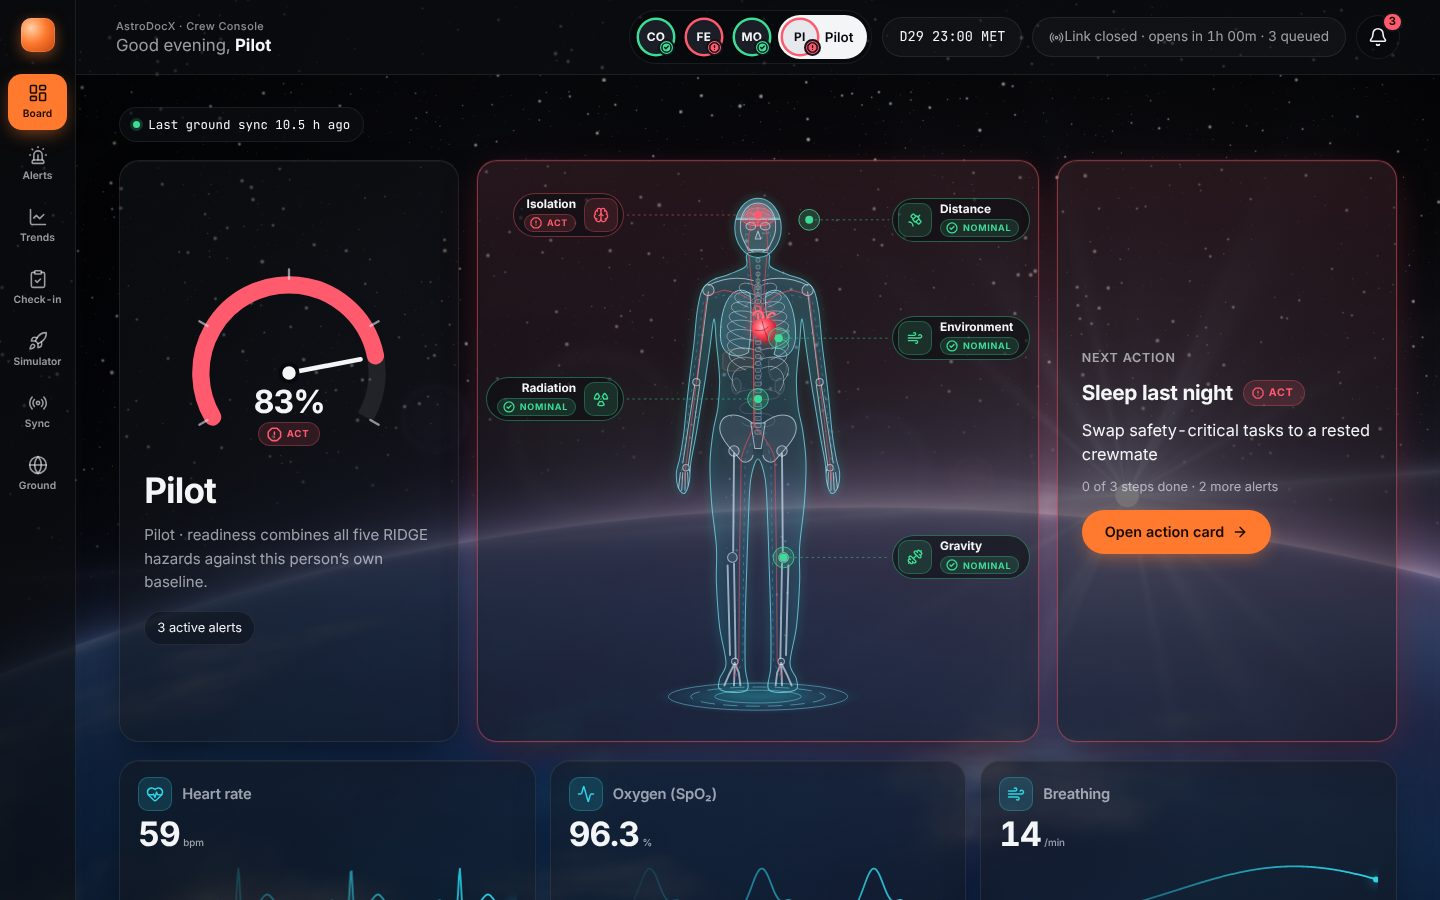
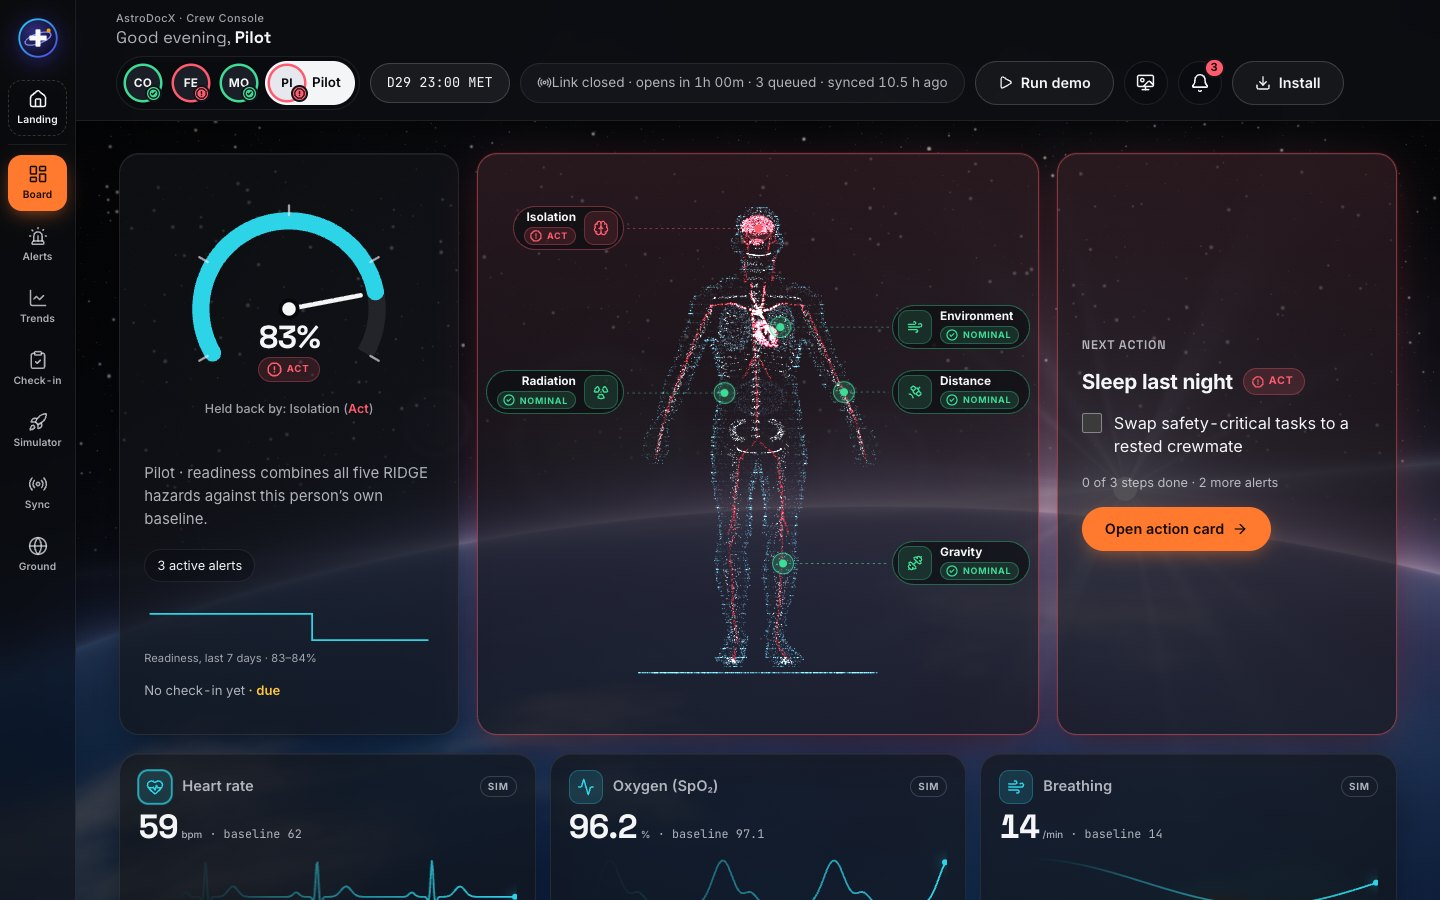
docs: README screenshots and text match the current landing page and console
- New 1440x900 screenshots: intro, the Crew scene on the Moon, Health Twin, AstroDocX
  reveal, and every console page (Pilot selected), plus Ground View with the 3D crew cards.
  The landing Live Demo shot is gone with the section itself.
- The README opens with the Health Twin instead of the old design mockup.
- Text follows what is built now: the particle journey, the 3D body in the console twin and
  ground cards, Run demo and the console Simulator instead of the landing Live Demo, tour
  mode, 180+ tests, the bakers in tools/, the baked targets and the 3D sources.

diff --git a/README.md b/README.md
@@ -5,7 +5,7 @@
 > NASA Space Apps Challenge 2026 · Challenge: *Create Health Monitoring Software for Astronauts on Space Missions*
 > Team AstroDocX · Dhaka, Bangladesh
 
-![AstroDocX Health Twin](landing/assets/og-image.png)
+![AstroDocX Health Twin: a real human shape made of particles, with the brain, heart, lungs, skeleton and arteries inside](docs/screenshots/health-twin.jpg)
 
 ## The problem
 Long-duration missions expose astronauts to the five spaceflight hazards NASA groups as **RIDGE**:
@@ -30,12 +30,12 @@ AstroDocX learns each astronaut's **personal baseline**, spots drift early, and 
 | Explainable alerts | Each alert says what changed, by how much, against whose baseline and since when |
 | Action cards | Checkable countermeasure steps with progress and Done; open → escalate → ease → resolve lifecycle, all logged |
 | Status Board | Five RIDGE tiles, crew readiness score, crew overview, next action, live vitals strip (ECG-style waves, heart pulse) |
-| Health Twin (console) | Anatomical hologram: a live heart beating with the ECG; organs and bones take their hazard status |
+| Health Twin (console) | A 3D particle body (the same baked human as the landing page) turning gently: the heart beats with the live ECG, a pulse runs down the arteries, and each hazard colours its own part (brain, lungs, legs, skin, transmitter arm) amber or red |
 | Trends | 11 charts with the personal baseline band, alert markers, 24 h / 7 d / 30 d |
 | Daily Check-in | Mood, sleep quality, hours slept, 8 symptom chips and a 5-tap reaction test (PVT-style); symptoms and sleep quality raise alerts |
 | Mission Simulator | Mission clock, fast-forward, 4 injectable scenarios (solar event, CO₂ fault, insomnia, deconditioning); watch the engine react |
 | Ground Sync | Delay-tolerant outbox: link windows, 12-minute delay, blackout, auto-sync, CSV log export |
-| Ground View | Flight-surgeon view rebuilt only from synced entries (shows what Earth knows, and when) |
+| Ground View | Flight-surgeon view rebuilt only from synced entries (shows what Earth knows, and when); each crew card shows the 3D body in its status colour |
 | Platform | Offline-first installable PWA, IndexedDB on the device, 4-crew 30-day demo mission preloaded |
 
 **Not built yet (Roadmap):** wearable sensor integration, a real Supabase ground backend with proper policies, vision/SANS self-tests, blood pressure, bone density, a multi-device ground station.
@@ -43,11 +43,15 @@ AstroDocX learns each astronaut's **personal baseline**, spots drift early, and 
 > **Status:** the landing page and the **Crew Console** (`app/`) are built and run the full loop on synthetic data. See [`plan.md`](plan.md) for the build log. AstroDocX is a prototype, **not a medical device**; all thresholds not cited in the code are illustrative.
 
 ## Screenshots
-**Landing page**
+**Landing page:** one scroll-driven journey made of the same 24,000 particles: stardust, a planet, an astronaut saluting the flag on the Moon, Orion, a relay satellite and Earth, which then becomes the Health Twin and finally the AstroDocX wordmark.
 
-| Hero | Health Twin | Mission Simulator |
-|---|---|---|
-| ![Hero](docs/screenshots/hero.jpg) | ![Health Twin](docs/screenshots/health-twin.jpg) | ![Mission Simulator](docs/screenshots/mission-simulator.jpg) |
+| Intro | Crew: on the Moon |
+|---|---|
+| ![Intro: Explore Beyond](docs/screenshots/hero.jpg) | ![An astronaut saluting the flag on the Moon, Earth above, made of particles](docs/screenshots/crew-moon.jpg) |
+
+| Health Twin | AstroDocX |
+|---|---|
+| ![Health Twin with six systems and leader lines](docs/screenshots/health-twin.jpg) | ![The AstroDocX wordmark and pitch](docs/screenshots/astrodocx.jpg) |
 
 **Crew Console** (synthetic demo data, Pilot selected)
 
@@ -61,13 +65,16 @@ AstroDocX learns each astronaut's **personal baseline**, spots drift early, and 
 |---|---|
 | ![Check-in](docs/screenshots/console-checkin.jpg) | ![Simulator](docs/screenshots/console-simulator.jpg) |
 
-![Ground Sync](docs/screenshots/console-sync.jpg)
+| Ground Sync | Ground View |
+|---|---|
+| ![Ground Sync](docs/screenshots/console-sync.jpg) | ![Ground View crew cards with the 3D body in each status colour](docs/screenshots/console-ground.jpg) |
 
 The live waves on the board (ECG, pulse oximeter, breathing) are **simulated telemetry** built around the latest real readings; they never change alerts.
 
 ## Try it
 - **Health Twin:** scroll through the section. The scan runs head to feet, six system panels appear, Crew Readiness counts up, then the Pilot's real Act alert from the demo mission appears as an action card. Panel values are the demo mission's latest readings.
-- **Mission Simulator (Live Demo):** inject a fault (CO₂ scrubber fault, solar particle event, insomnia streak, skipped exercise, link blackout) or press *Play scenario*. Tick the action-card steps, press *Carry out & log*, then open the ground link window to sync the log.
+- **Run demo (Crew Console):** press *Run demo* in the top bar to inject a CO₂ scrubber fault and watch the board, twin and alerts react (about 20 s); *Reset demo* restores the mission data.
+- **Mission Simulator (Crew Console, `/app/simulator`):** inject a scenario (solar particle event, CO₂ scrubber fault, insomnia streak, skipped exercise) for one crew member or the whole crew, then tick the action-card steps on Alerts and sync the log from Ground Sync in the next link window.
 
 ## Links
 - **Landing page:** https://astrodocx.netlify.app
@@ -82,7 +89,7 @@ The live waves on the board (ECG, pulse oximeter, breathing) are **simulated tel
 cd app
 npm install
 npm run dev      # http://localhost:5173/app/
-npm test         # 100+ tests (engine, UI, DB)
+npm test         # 180+ tests (engine, UI, DB)
 npm run build && npm run preview   # production build with the service worker, to test install and offline
 ```
 
@@ -98,7 +105,7 @@ python3 -m http.server 8000
 By default Ground Sync is simulated and nothing leaves the device. To upload synced log entries to a real server, create a Supabase project, run [`docs/supabase.sql`](docs/supabase.sql), copy `app/.env.example` to `app/.env.local` and fill in `VITE_SUPABASE_URL` and `VITE_SUPABASE_ANON_KEY`, then rebuild. Uploads happen only in link windows; a failed upload keeps entries queued like a blackout. The Ground View then reads from the server, so a flight surgeon can open `/app/ground` on another computer. **The provided policies are demo-grade (anonymous insert and read) and only suitable for synthetic data**; see the notes in the SQL file.
 
 ## Record the project video (tour mode)
-Open the landing page with `?tour=1` (for example `http://localhost:8000/?tour=1`) and it scrolls itself from hero to footer at a steady pace, so a screen recording is smooth. The cursor and back-to-top button are hidden, and the Live Demo's *Play scenario* starts on its own. Options: `&speed=1.25` (faster), `&delay=5` (lead-in seconds). Keys: Space pause, R restart, Esc stop; any mouse wheel or touch also stops it. Default run is roughly 3 to 4 minutes; check the Space Apps video length rules and tune `PLAN` in `landing/tour.js`.
+Open the landing page with `?tour=1` (for example `http://localhost:8000/?tour=1`) and it plays the journey by itself, pausing on every scene and Health Twin stage, so a screen recording is smooth. The cursor and back-to-top button are hidden. Options: `&speed=1.25` (faster), `&delay=5` (lead-in seconds). Keys: Space pause, R restart, Esc stop; any mouse wheel or touch also stops it. Check the Space Apps video length rules; hold times per scene are `tour` in `landing/universe/scenes.js`.
 
 ## Deploy (Netlify)
 `netlify.toml` builds the console (`cd app && npm ci && npm run build`), copies it to `landing/app/`, and publishes `landing/`. So one site serves the landing page at `/` and the Crew Console PWA at `/app/` (with an SPA fallback). Connect the repo in Netlify and deploy.
@@ -107,11 +114,9 @@ Open the landing page with `?tour=1` (for example `http://localhost:8000/?tour=1
 `vercel.json` does the same job: it installs and builds the console in `app/`, copies it to `landing/app/`, and serves `landing/` as the output, with the `/app/*` SPA fallback, the same security headers and no-cache for `sw.js`. Import the repo in Vercel with the root directory left at the repo root and the framework preset set to **Other**; set **Node.js 22.x** in Project Settings, General. No environment variables are needed (the Ground Server variables in `app/` are optional). The `og:image` and canonical URL in `landing/index.html` still name the Netlify site; update them to the Vercel URL if that becomes the main one.
 
 ## Tech
-- HTML, CSS and vanilla JavaScript
-- [Three.js r128](https://threejs.org/) for the nebula and 3D astronaut
-- [GSAP 3.12 + ScrollTrigger](https://gsap.com/) for scroll animation
-- One WebGL particle system (three.js) for the whole landing page, Health Twin included
-- Crew Console: React + TypeScript + Vite PWA, IndexedDB (Dexie), Zustand, Recharts, Vitest (simulated ground sync; Supabase is a stretch goal)
+- Landing page: HTML, CSS and vanilla JavaScript; one WebGL particle system ([Three.js r128](https://threejs.org/)) for the whole page, Health Twin included; [GSAP 3.12 + ScrollTrigger](https://gsap.com/) for the pinned scroll
+- 3D shapes are baked offline into small point clouds by dependency-free Node scripts in `tools/`: the Crew scene from the NASA Z2 spacesuit model (right arm re-posed into a salute), the human body carved from a 360° turntable video (visual hull)
+- Crew Console: React + TypeScript + Vite PWA, IndexedDB (Dexie), Zustand, Recharts, Vitest; its Health Twin draws the same baked body with plain WebGL (simulated ground sync; Supabase optional)
 
 ## Project structure
 ```
@@ -123,10 +128,13 @@ AstroDocX/
 │   ├── tour.js     # ?tour=1 self-scrolling video mode
 │   ├── universe/   # the particle journey: one canvas for intro -> Health Twin -> AstroDocX
 │   │               #   scenes.js (copy + chapter lengths), engine.js (8 shapes), universe.js (director),
-│   │               #   health-twin.js, reveal.js (chapter UI), stars.js, camera.js, fx.js, universe.css
+│   │               #   health-twin.js, reveal.js (chapter UI), stars.js, camera.js, fx.js, sound.js, universe.css
+│   │   └── targets/ # baked point clouds: astronaut.bin (Crew scene), body.bin + body.json (Health Twin)
+│   ├── anatomy3d.js # opt-in 3D anatomy viewer (Sketchfab)
 │   ├── fonts/
 │   └── assets/     # feature mockups, og-image
 ├── app/            # Crew Console PWA (React + TypeScript + Vite)
+├── tools/          # particle bakers: bake-moon.mjs, bake-body.mjs, bake-particles.mjs (+ undraco.mjs)
 ├── docs/           # design references + screenshots
 ├── plan.md         # roadmap
 └── netlify.toml
@@ -138,10 +146,12 @@ AstroDocX/
 - [NASA Twins Study](https://www.nasa.gov/twins-study/)
 - [PhysioNet](https://physionet.org/): public physiological signals (ECG / HRV)
 
-Landing-page numbers come from the console's seeded demo mission (synthetic data); the marquee values and the Live Demo are illustrative. Only the CO₂ and dose limits are cited (NASA-STD-3001).
+Landing-page numbers (the Health Twin panels and Crew Readiness) come from the console's seeded demo mission (synthetic data). Only the CO₂ and dose limits are cited (NASA-STD-3001).
 
 ## Credits
 The visual theme (nebula, 3D astronaut, scroll system) is adapted from team lead Alif Mahmud's own portfolio template.
+
+3D sources: the Crew scene's astronaut is the NASA Z2 spacesuit from [NASA 3D Resources](https://science.nasa.gov/3d-resources/); the Health Twin body is carved from a turntable render the team made in Tripo Studio. Details and licences: [`landing/universe/targets/README.md`](landing/universe/targets/README.md).
 
 ## License
 [MIT](LICENSE)
